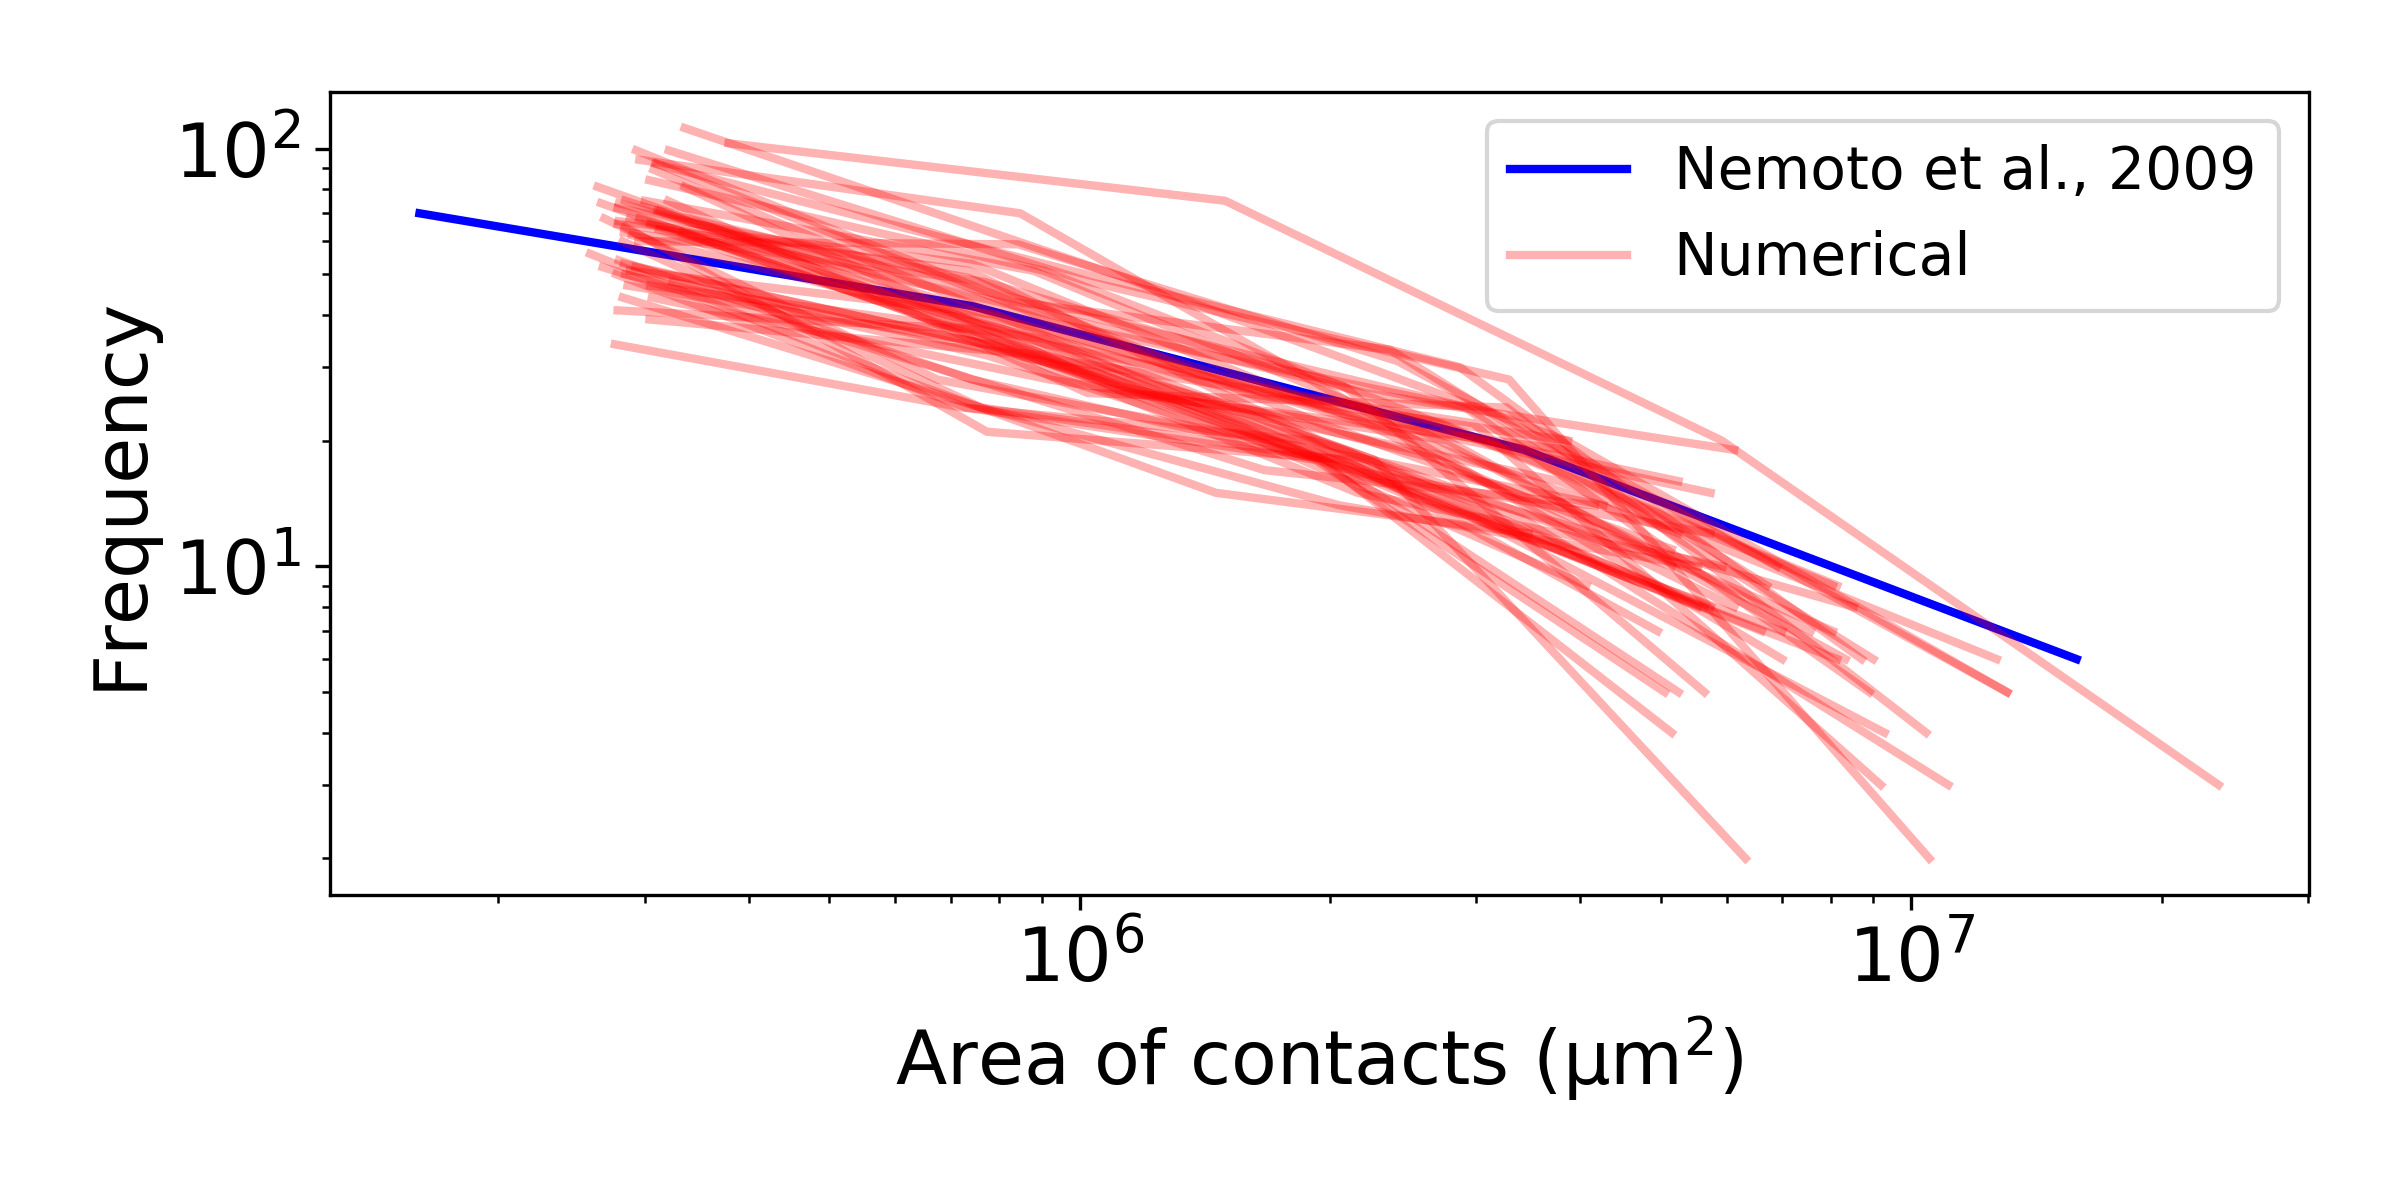
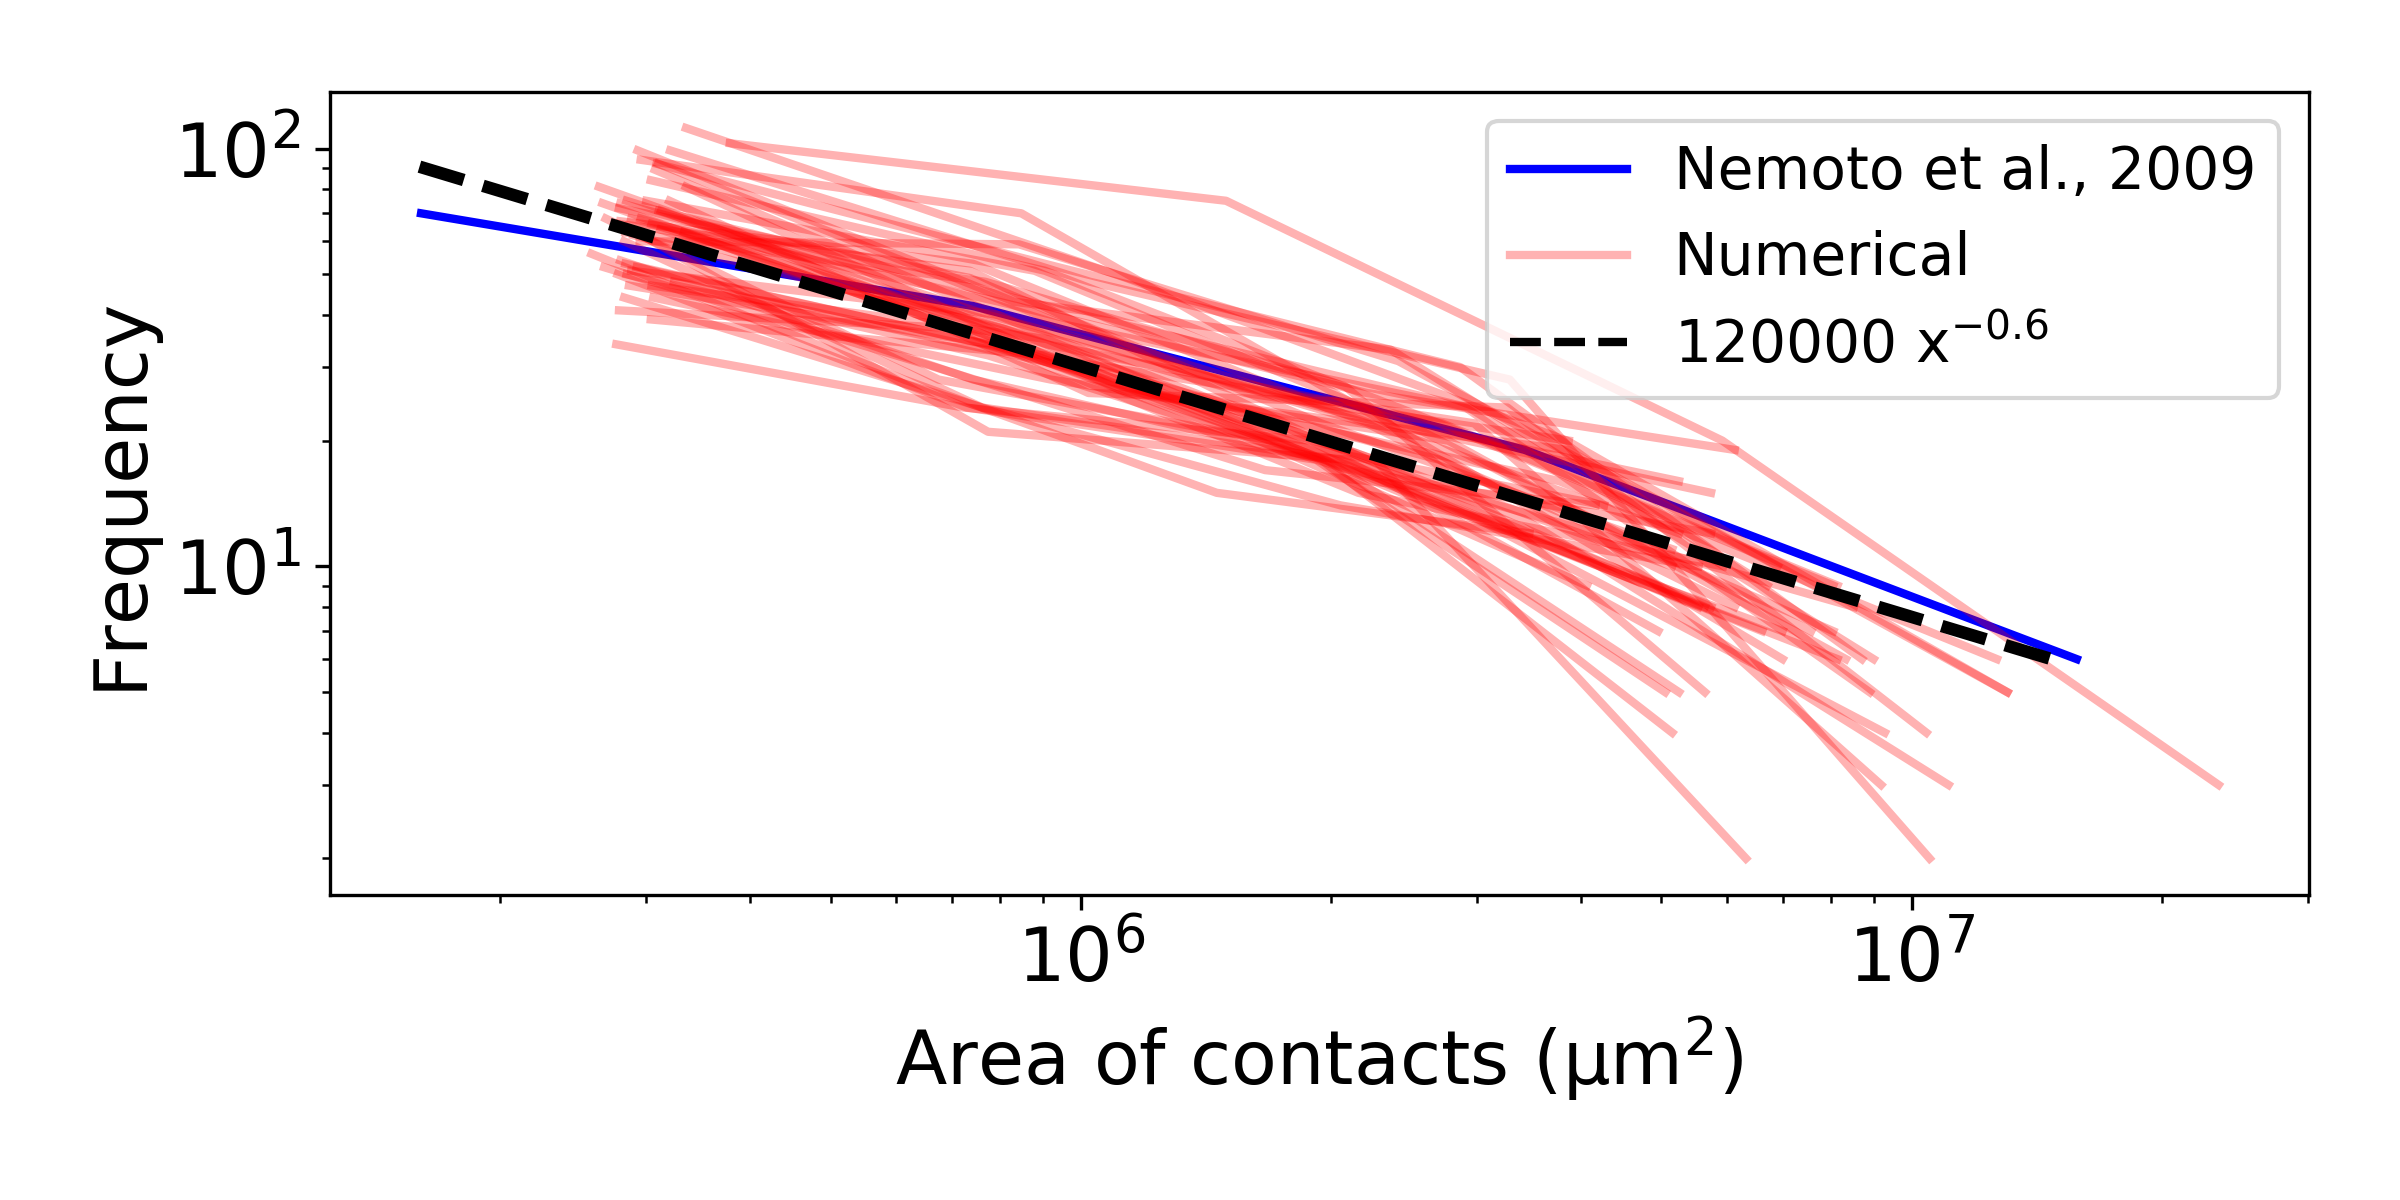
exponential fit contact area

diff --git a/generate.py b/generate.py
@@ -97,17 +97,16 @@ if __name__ == "__main__":
     colors, alphas = ["blue"] + ["red"] * lsim, [1.0] + [0.3] * lsim
 
     def hook(ax):
+        i, exponent = 120000, -0.6
+        def powerlaw(x):
+            return i * x**exponent
+        slopeAx = np.array([1.6E5, 1.5E7])
+        slopeAy = powerlaw(slopeAx)
         blue_line = mpl.lines.Line2D([], [], color="blue", label="Nemoto et al., 2009")
         red_line = mpl.lines.Line2D([], [], color="red", alpha=0.3, label="Numerical")
-        plt.legend(handles=[blue_line, red_line])
-        i, k = 90, -5.6E-6
-
-        def line(x):
-            return i + k * x
-
-        slopeAx = np.array([1.6E5, 1.5E7])
-        slopeAy = line(slopeAx)
-        # ax.plot(slopeAx, slopeAy, linestyle='--', lw=3, color="black")
+        fit_line = mpl.lines.Line2D([], [], color="black", linestyle='--', label="120000 x$^{-0.6}$")
+        plt.legend(handles=[blue_line, red_line, fit_line])
+        ax.plot(slopeAx, slopeAy, linestyle='--', lw=3, color="black")
 
     figtools.contactdistribution.plot(
         allareas,

diff --git a/figtools/matplotlibsettings.py b/figtools/matplotlibsettings.py
@@ -1,6 +1,7 @@
 from matplotlib import rcParams
 
 rcParams['font.family'] = 'sans-serif'
+#rcParams['text.usetex'] = True
 rcParams['mathtext.default'] = 'regular'
 rcParams['font.sans-serif'] = ['Helvetica']
 #rcParams['axes.color_cycle'] = ['b', 'r', 'g', 'c', 'm', 'y', 'k']
